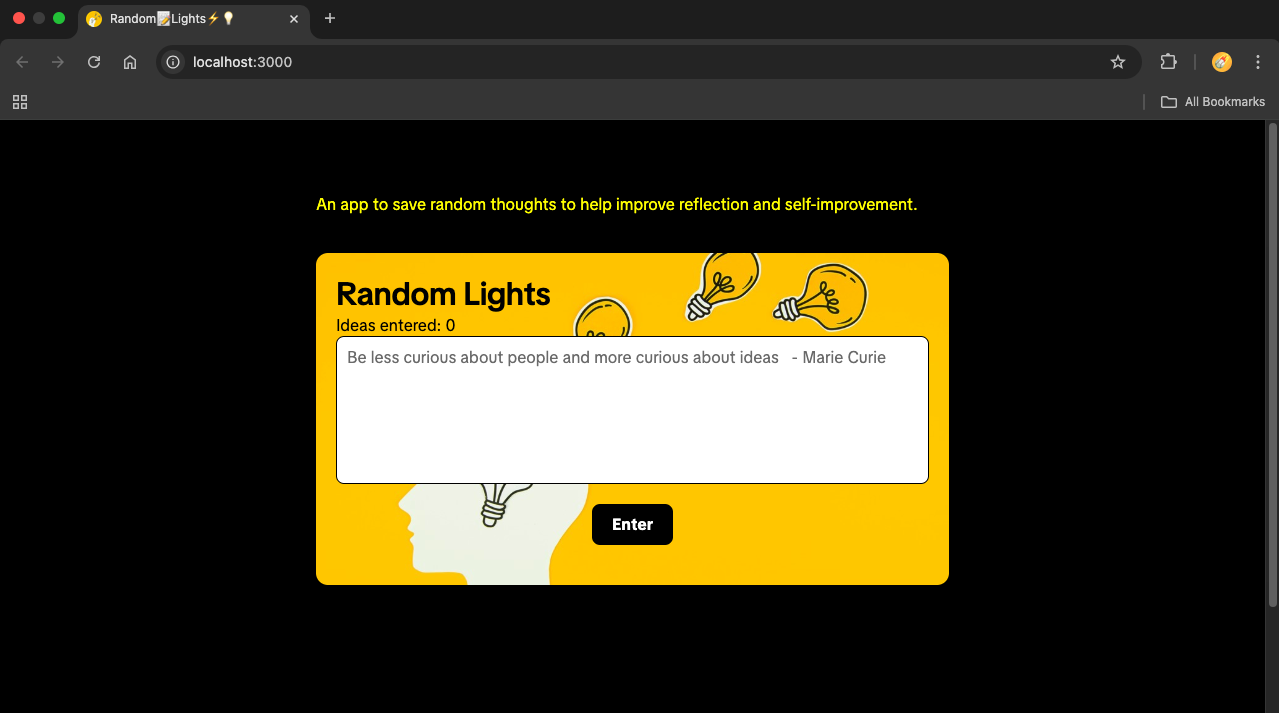
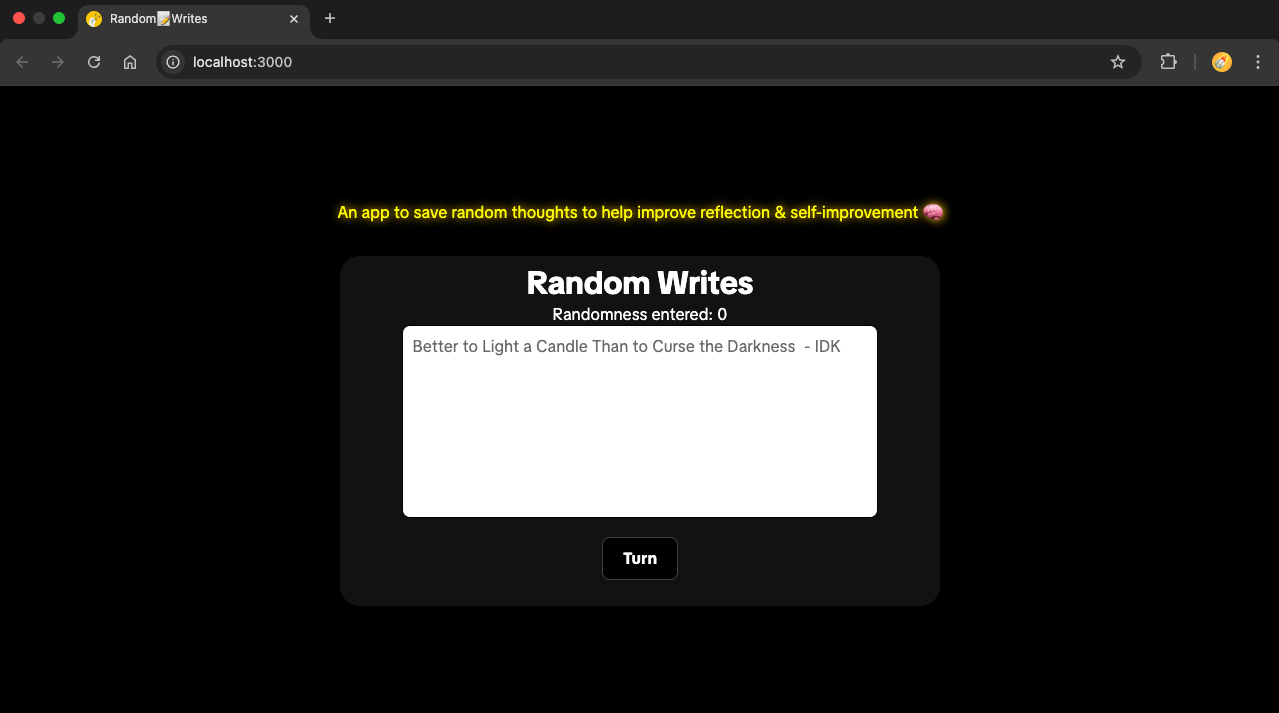
Updated site pic in README.md, adjusting theme.

Changed region(s): [[0.2439, 0.2777, 0.7623, 0.8331], [0.0, 0.1234, 1.0, 1.0], [0.122, 0.0, 0.183, 0.0309]]

diff --git a/src/styles/style.css b/src/styles/style.css
@@ -10,25 +10,55 @@
 }
 
 body {
-  font-family: sans-serif;
   background: linear-gradient(to right, #f9f9f9, #e0f7fa);
-  width: 100vw;
-  height: 100vh;
   flex-wrap: wrap;
   background: black;
-  /* border: 2px solid red; */
+}
+
+form {
+  border-radius: 5px;
+  display: flex;
+  flex-direction: column;
+  align-items: center;
+  justify-content: center;
+  width: 600px;
+  height: 350px;
+  color: white;
+  background-size: contain;
+}
+
+.container {
+ /* border: 2px solid red; */
+ display: flex;
+ flex-direction: column;
+ align-items: center;
+ justify-content: center;
+ width: 100%;
+ height: 100vh;
 }
 
 .idea-input {
-  width: 500px;
-  height: 250px;
+  width: 80%;
+  height: 55%;
+  border-radius: 5px;
+  
+}
+@media(max-width: 500px) {
+.idea-input {
+  width: 70%;
+}
+}
+
+.idea-input textarea {
+  display: flex;
+  align-items: center;
+  justify-content: center;
+  height: 100%;
 }
 #idea {
   display: flex;
   flex-direction: column;
   margin-bottom: 20px;
-
-  /* border: 2px solid red; */
   width: 100%;
   height: 100%;
 }
@@ -51,7 +81,7 @@ button {
   cursor: pointer;
   transition: background-color 0.3s;
   border: 0.00001px solid rgb(74, 73, 73);
-  margin-top: 3%;
+  margin-top: 25%;
 }
 
 button:hover{
@@ -84,24 +114,8 @@ button:hover::before {
   color: white;
   width: 100%;
   height: 100%;
-
-  /* border: 4px solid green; */
 }
 
-.container {
- display: flex;
- height: 85%;
-
-  /* border: 2px solid red; */
-}
-
-aside h2 {
-  text-shadow:
-  1px 1px 2px red,
-  0 0 1em blue,
-  0 0 0.2em blue;
-  text-align: center;
-}
 
 button,
 textarea {
@@ -117,9 +131,6 @@ body h4{
   color: yellow;
   text-shadow: #fc0 1px 0 10px;
   height: 22%;
- 
-  /* border: 0.5px solid yellow; */
-  padding: 2%;
   text-align: center;
 }
 
@@ -130,3 +141,60 @@ body > canvas {
   z-index: 10;
 }
 
+.banner {
+  margin-bottom: 2.5%;
+}
+
+
+  .pulse-box {
+      width: 600px;
+      height: 350px;
+      background: #111;
+      border: 2px solid transparent;
+      border-radius: 20px;
+      position: relative;
+      z-index: 1;
+      color: white;
+      font-family: sans-serif;
+      display: flex;
+      justify-content: center;
+      align-items: center;
+      text-align: center;
+    }
+
+    .pulse-box::before {
+      content: "";
+      position: absolute;
+      top: -4px;
+      left: -4px;
+      right: -4px;
+      bottom: -4px;
+      background-size: 400% 400%;
+      border-radius: 24px;
+      z-index: -1;
+      filter: blur(5px);
+    }
+
+    /*
+    background: linear-gradient(90deg, blue, black);
+    @keyframes electricPulse {
+      0% {
+        background-position: 0% 50%;
+        opacity: 0.6;
+      }
+      50% {
+        background-position: 100% 50%;
+        opacity: 1;
+      }
+      100% {
+        background-position: 100% 20%;
+        opacity: 0.3;
+      }
+    }
+*/
+
+.idea-container {
+  /* border: 2px solid blue; */
+  position: absolute;
+  left: 75%;
+}

diff --git a/index.html b/index.html
@@ -3,37 +3,44 @@
 <head>
   <meta charset="UTF-8" />
   <meta name="viewport" content="width=device-width, initial-scale=1.0" />
-  <title>Random📝Lights</title>
+  <title>Random📝Writes</title>
   <link rel="icon" type="image/png" href="/ideaFav.png">
   <link rel="stylesheet" href="src/styles/style.css" />
 </head>
 <body>
+  <main class="container">
+
+    <div class="idea-container">
+      <div id="ideas-as-lights"></div>
+    </div>
+
   <div class="banner">
     <h4>An app to save random thoughts to
-      help improve reflection and self-improvement.
+      help improve reflection & self-improvement 🧠
     </h4>
-    <!-- <button id="theme-toggle" aria-label="Toggle button to change light and dark theme of web page."></button> -->
   </div>
-  <main class="container">
-     <aside class="saved-ideas">
-    <h2>ON</h2>
-    <div id="ideas-as-lights"></div>
-  </aside>
-    <form>
-      <h1>Random Lights</h1>
-      <p>Ideas entered: <span id="ideas-entered">0</span></p>
-      <section class="idea-input">
-        <label for="idea"></label>
-        <textarea id="idea" required placeholder="Be less curious about people and more curious about ideas   - Marie Curie"></textarea>
-      </section>
-      <section class="buttons">
-        <button id="increment-btn" onclick="increment()"></button>
-      </section>
-    </form>
-     <aside class="saved-ideas">
-    <h2>OFF</h2>
-    <div id="ideas-as-lights"></div>
-  </aside>
+
+
+    <div class="pulse-box">
+    
+      <form>
+        <h1>Random Writes</h1>
+        <p>Randomness entered: <span id="ideas-entered">0</span></p>
+        <section class="idea-input">
+          <label for="idea"></label>
+          <textarea id="idea" required
+            placeholder="Better to Light a Candle Than to Curse the Darkness  - IDK"></textarea>
+        </section>
+        <section class="buttons">
+          <button id="increment-btn" onclick="increment()"></button>
+        </section>
+      </form>
+    
+    </div>
+
+
+  
+
   </main>
    <!-- <canvas id="canvas"></canvas> -->
 <!-- canvas fullscreen -->

diff --git a/src/scripts/index.js b/src/scripts/index.js
@@ -1,7 +1,11 @@
 const entries = [];
 const textAreaContent = document.getElementById("idea");// Text from textarea
 const ideasAsLights = document.getElementById("ideas-as-lights");// Visual images of lights as links for saved text from textarea
+const form = document.querySelector("form");
 let count = 0;
+
+
+
 
 function increment() {
 
@@ -13,6 +17,7 @@ function increment() {
     lightBulb.style.width = "30px";
     lightBulb.style.margin = "5px";
     lightBulb.style.cursor = "pointer";
+    
     
     const anchorIdea = document.createElement("a");
           anchorIdea.href = "#";
@@ -27,6 +32,13 @@ function increment() {
     ideasAsLights.appendChild(anchorIdea);//Appends anchor to HTML
     textAreaContent.value = ""; //Visually refreshes the textarea
     count++; // Increases count
+
+    form.style.background = "blue";
+
+
+  setTimeout(() => {
+    form.style.background = "#111";
+  }, "10")
 }
 
 
